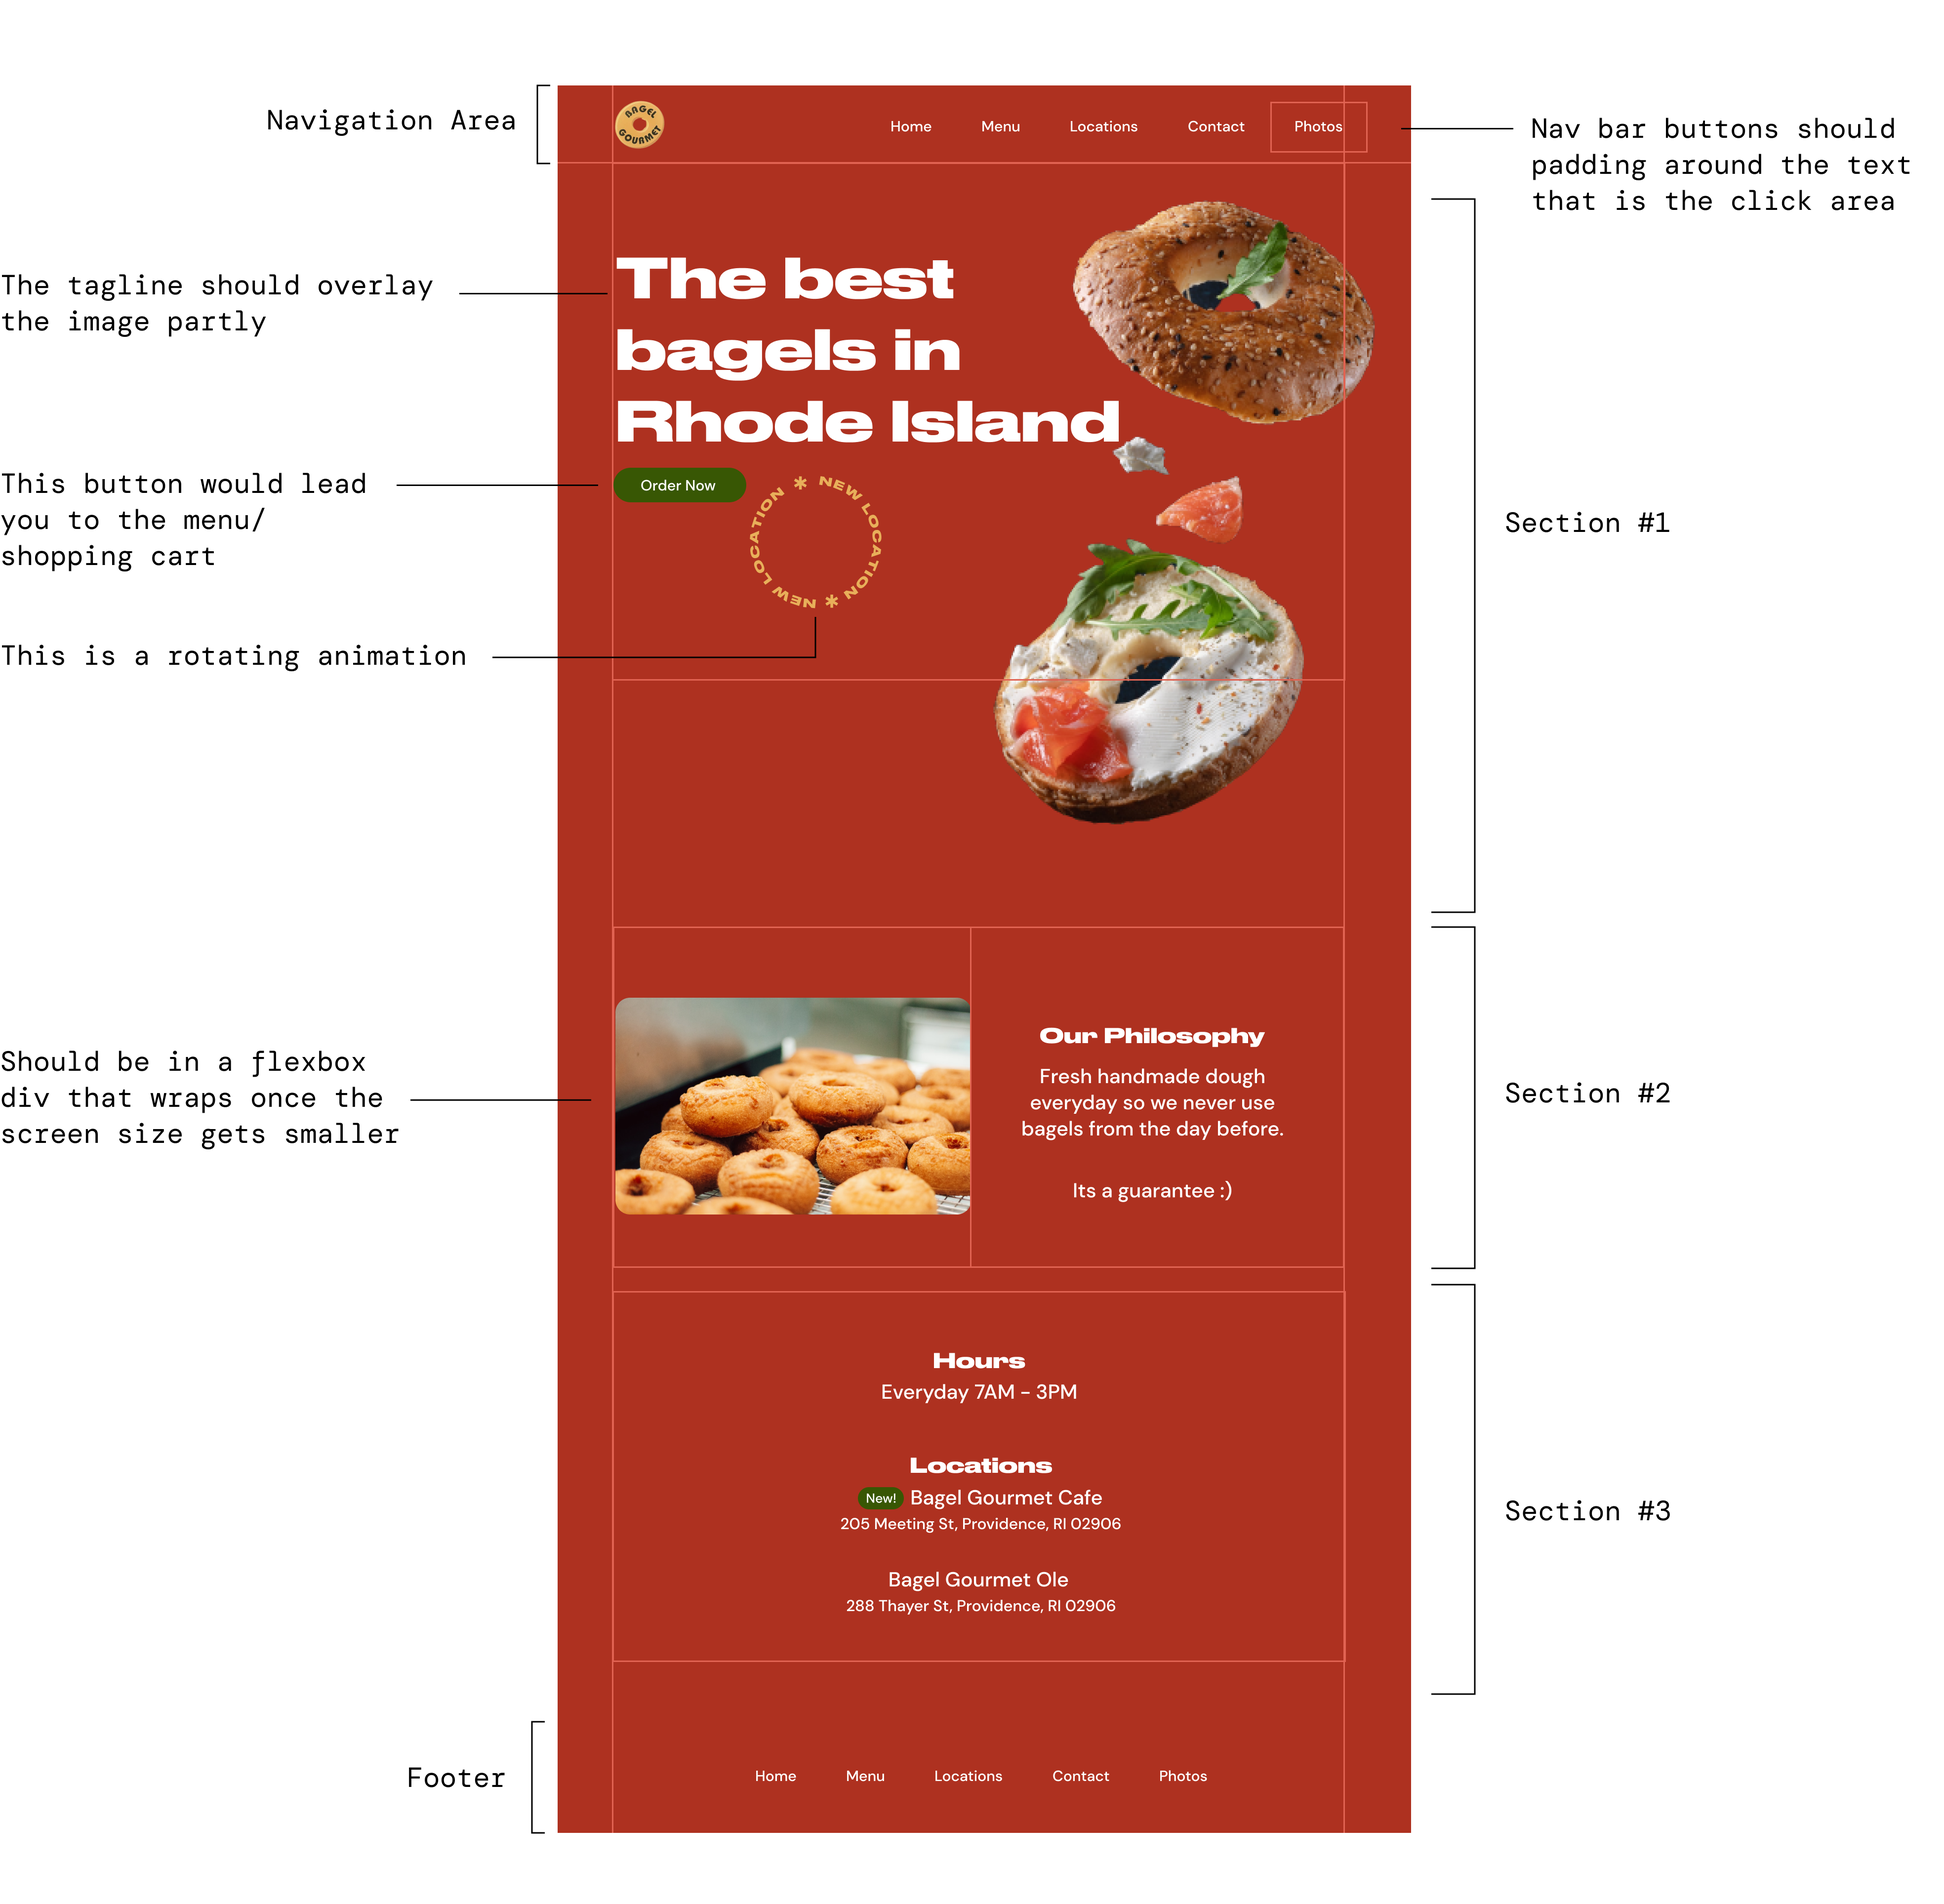
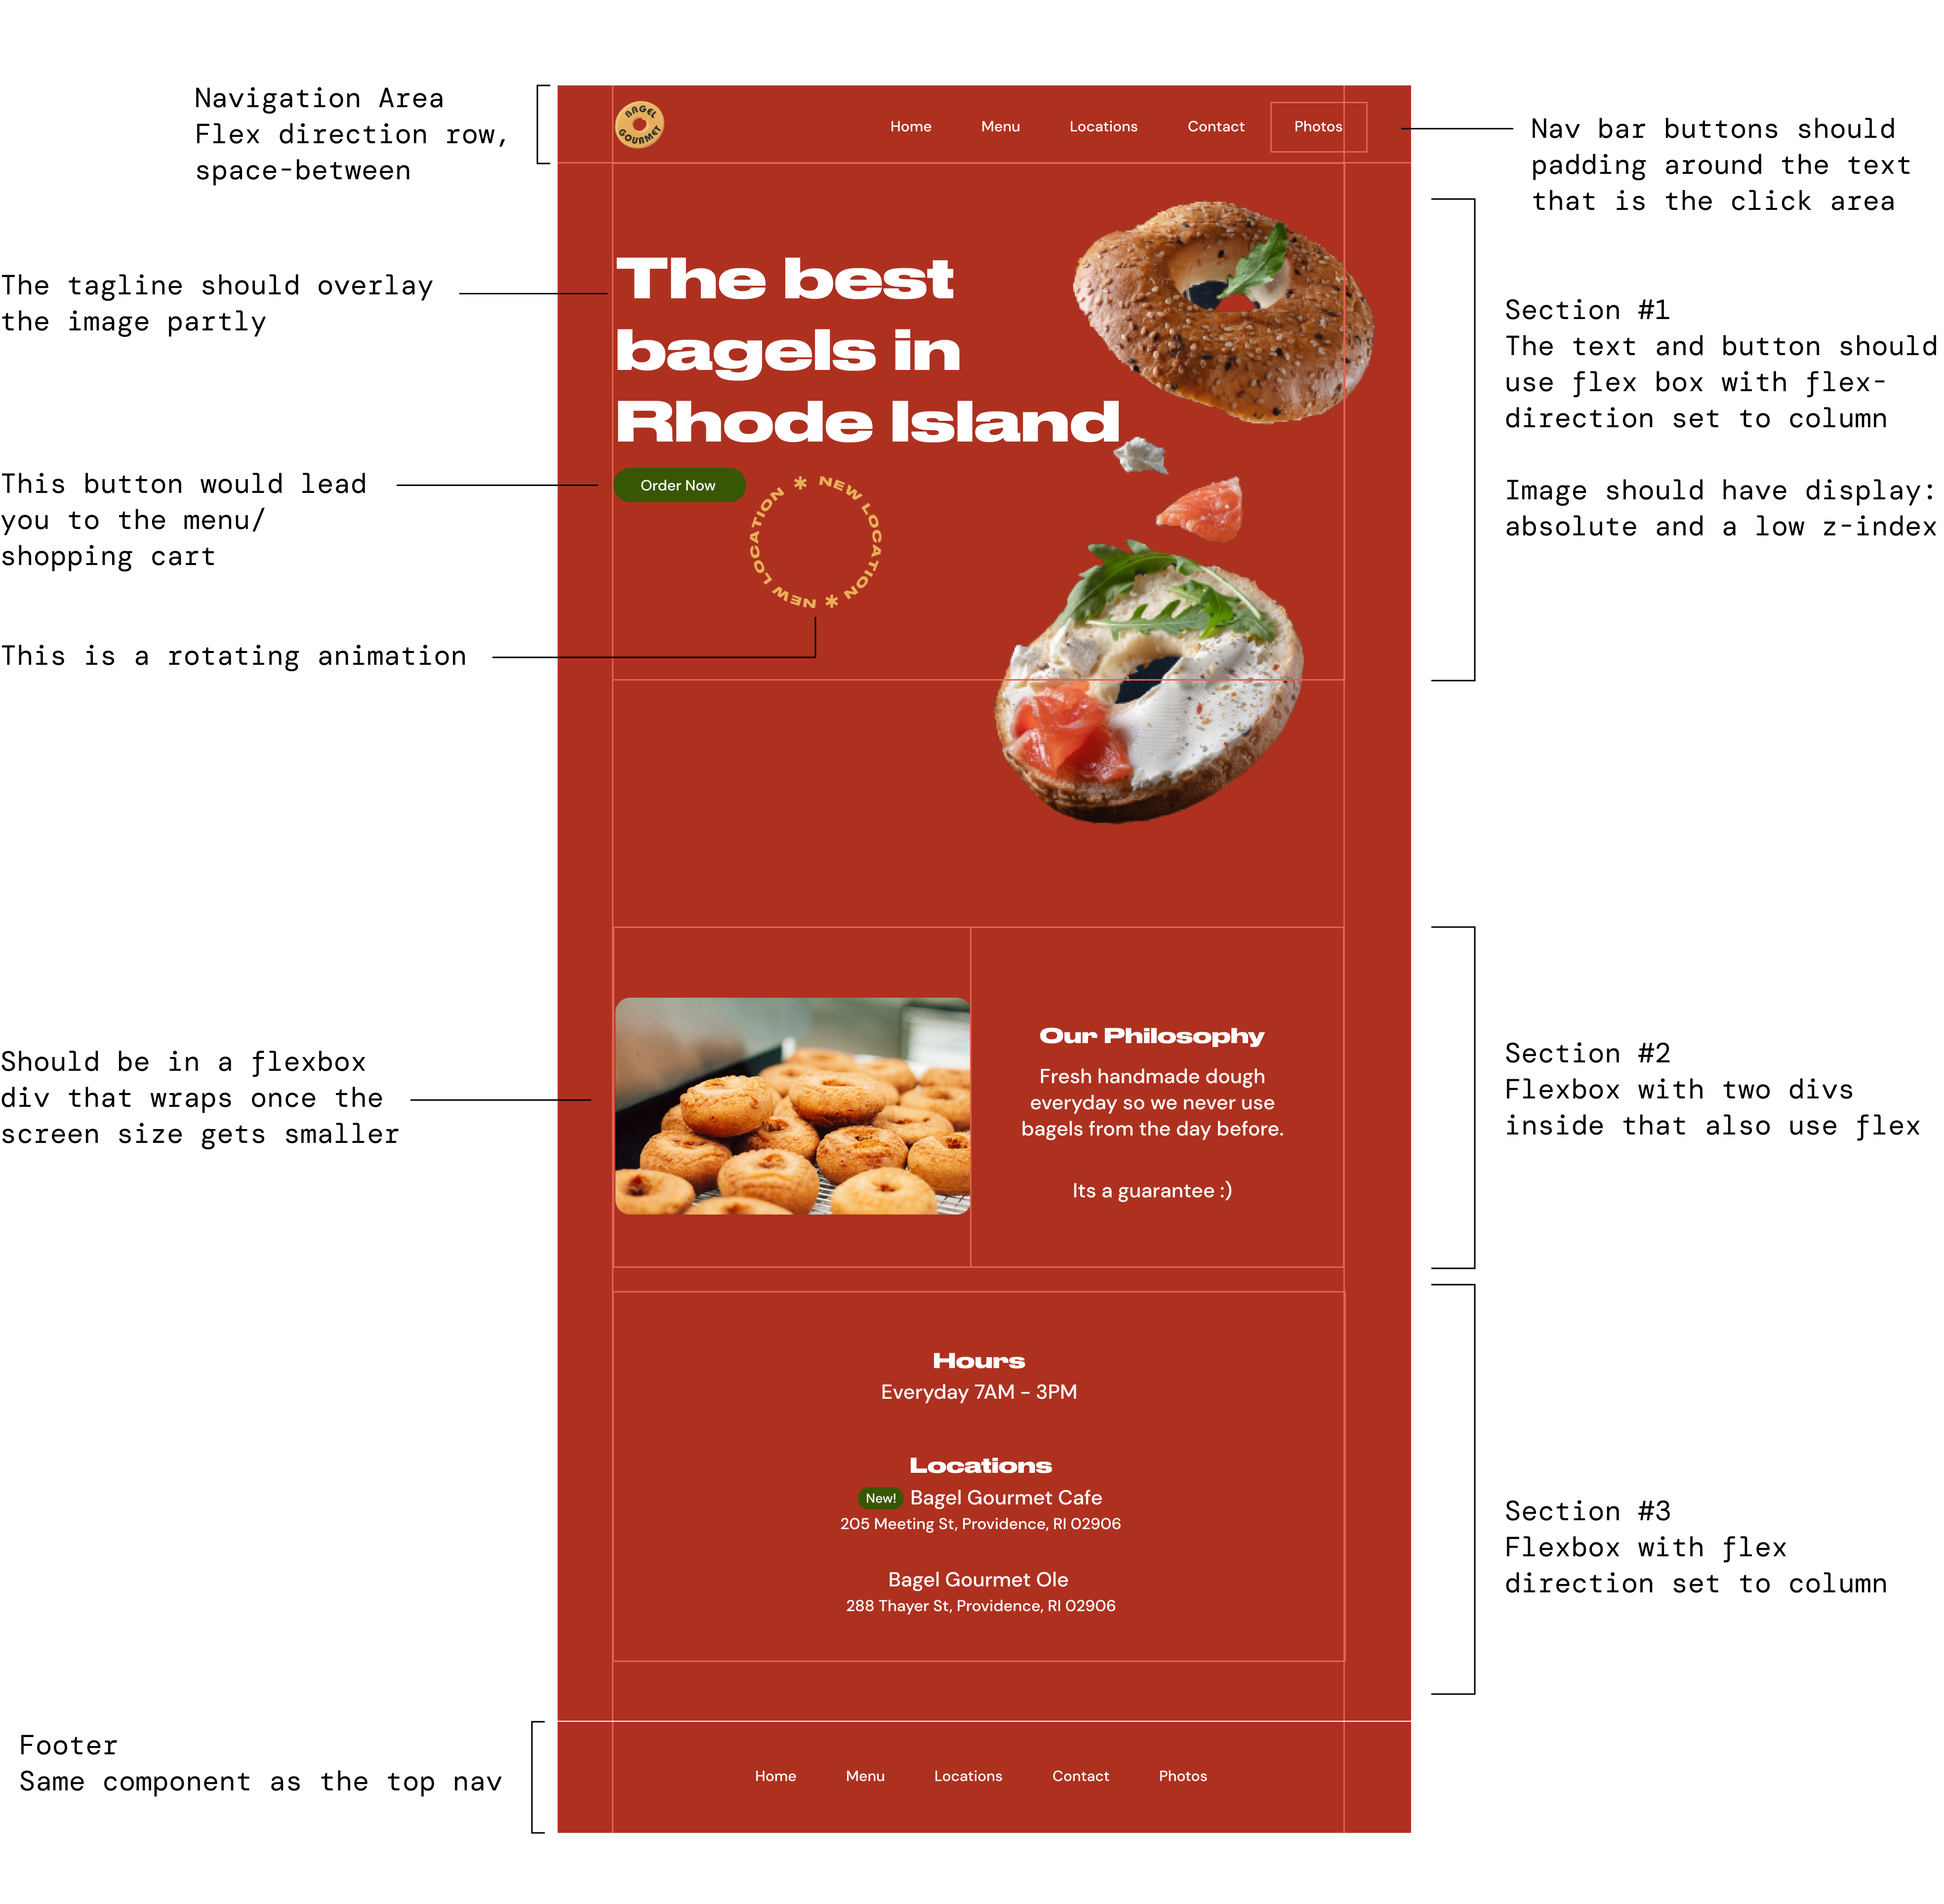
assignment 2 final

diff --git a/responsive_design.html b/responsive_design.html
@@ -97,11 +97,13 @@
                 <img src="Responsive_design/styleguide.png" alt="Styleguide for new wesbite made in figma.">
 
                 <h3> Hi-fi Prototyping </h3>
+                <p>Desktop</p> 
                 <img src="Responsive_design/annotated-hifi.png" alt="Hi-fi Wireframe for redesign.">
-                <img src="Responsive_design/hifi.png" alt="Hi-fi Wireframe for redesign.">
+                <p>Tablet and Mobile</p> 
+                <img src="Responsive_design/annotated-hifi2.png" alt="Hi-fi Wireframe for redesign.">
 
                 <h3> Final Product! </h3>
-                <img src="Responsive_design/final_design.png" alt="Final screenshot of redesign.">
+                <img src="Responsive_design/final.gif" alt="Final screenshot of redesign.">
                 <a href="https://shyrhino123.github.io/bagel-gourmet-redesign/">https://shyrhino123.github.io/bagel-gourmet-redesign/</a>
             </div>
         </div>
